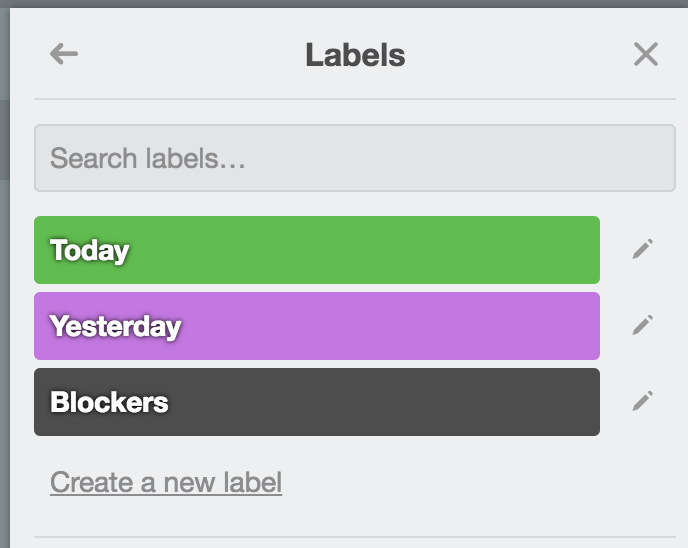
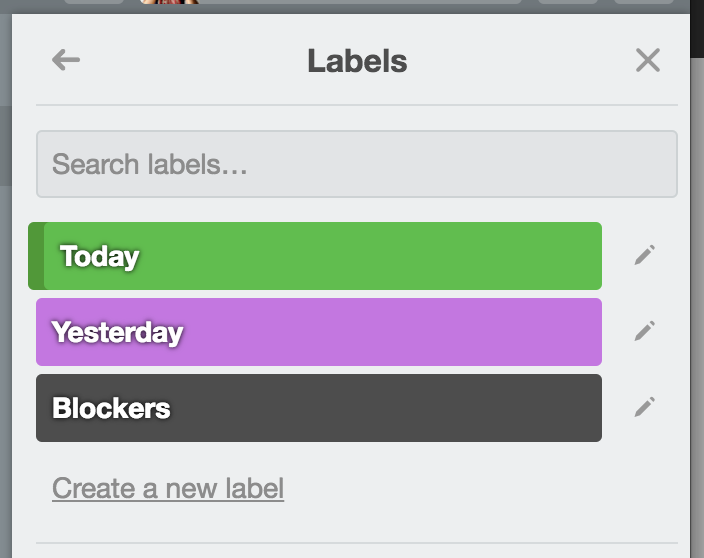
Adding Trello instructions

diff --git a/README.md b/README.md
@@ -1,8 +1,14 @@
 # trello-simple-standup-report
-Experimenting with an asynchronous standup model, using Trello as a base. The initial implementation supports only Trello to Slack.
+Experimenting with an asynchronous standup model, using Trello as a base. The initial implementation supports only Trello to Slack and Yammer.
 
 ## How it works
-In a Trello board, make a list per person 
+In a Trello board, make a list per person.
+
+![Trello board](assets/board.png)
+
+Define labels for `Yesterday`, `Today` and `Blockers`
+
+![Trello labels](assets/labels.png)
 
 ## Configuration
 We use [ruby-trello](https://github.com/jeremytregunna/ruby-trello), follow the instructions they provide to get the API key information you need to make this work. 
